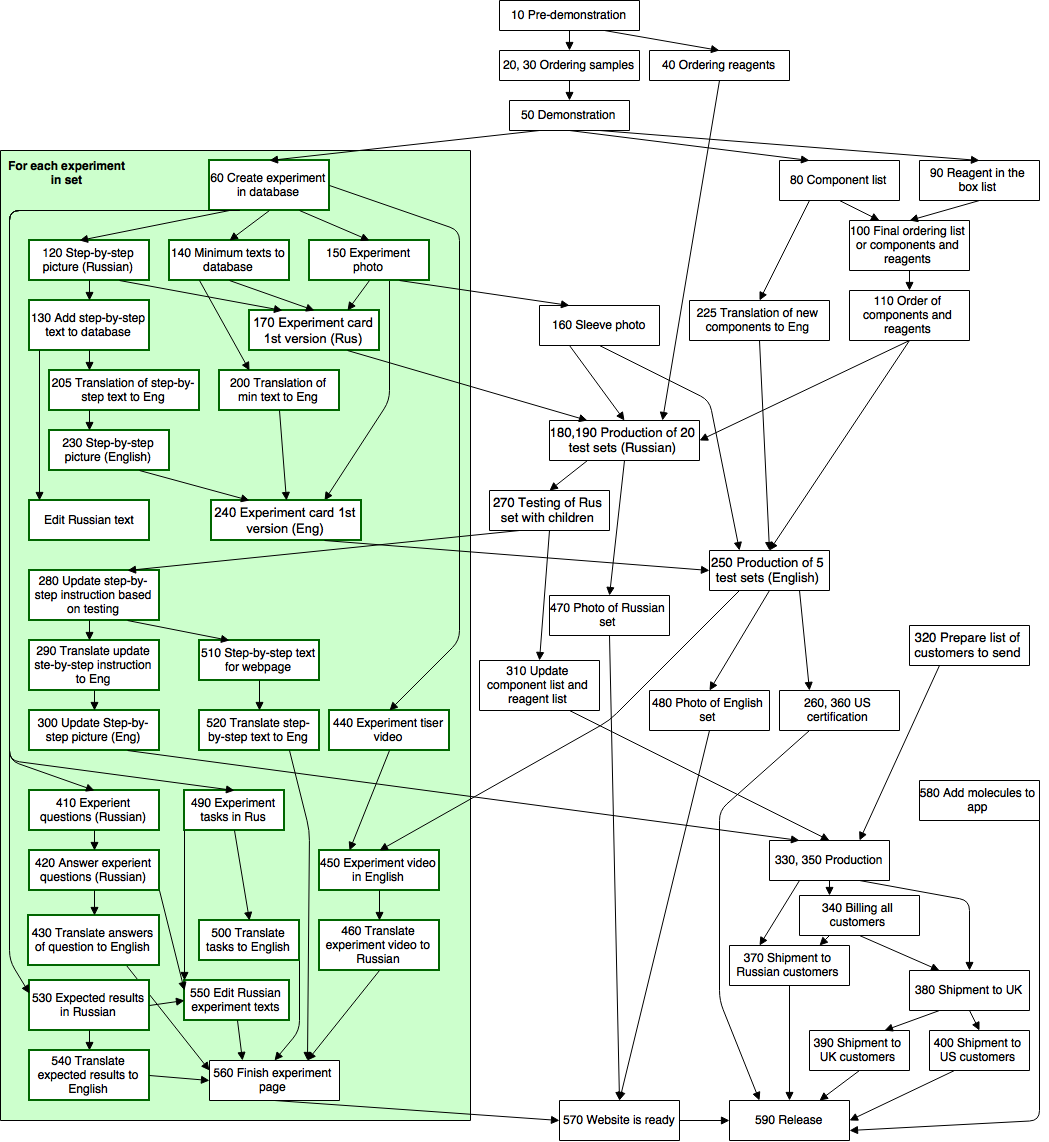
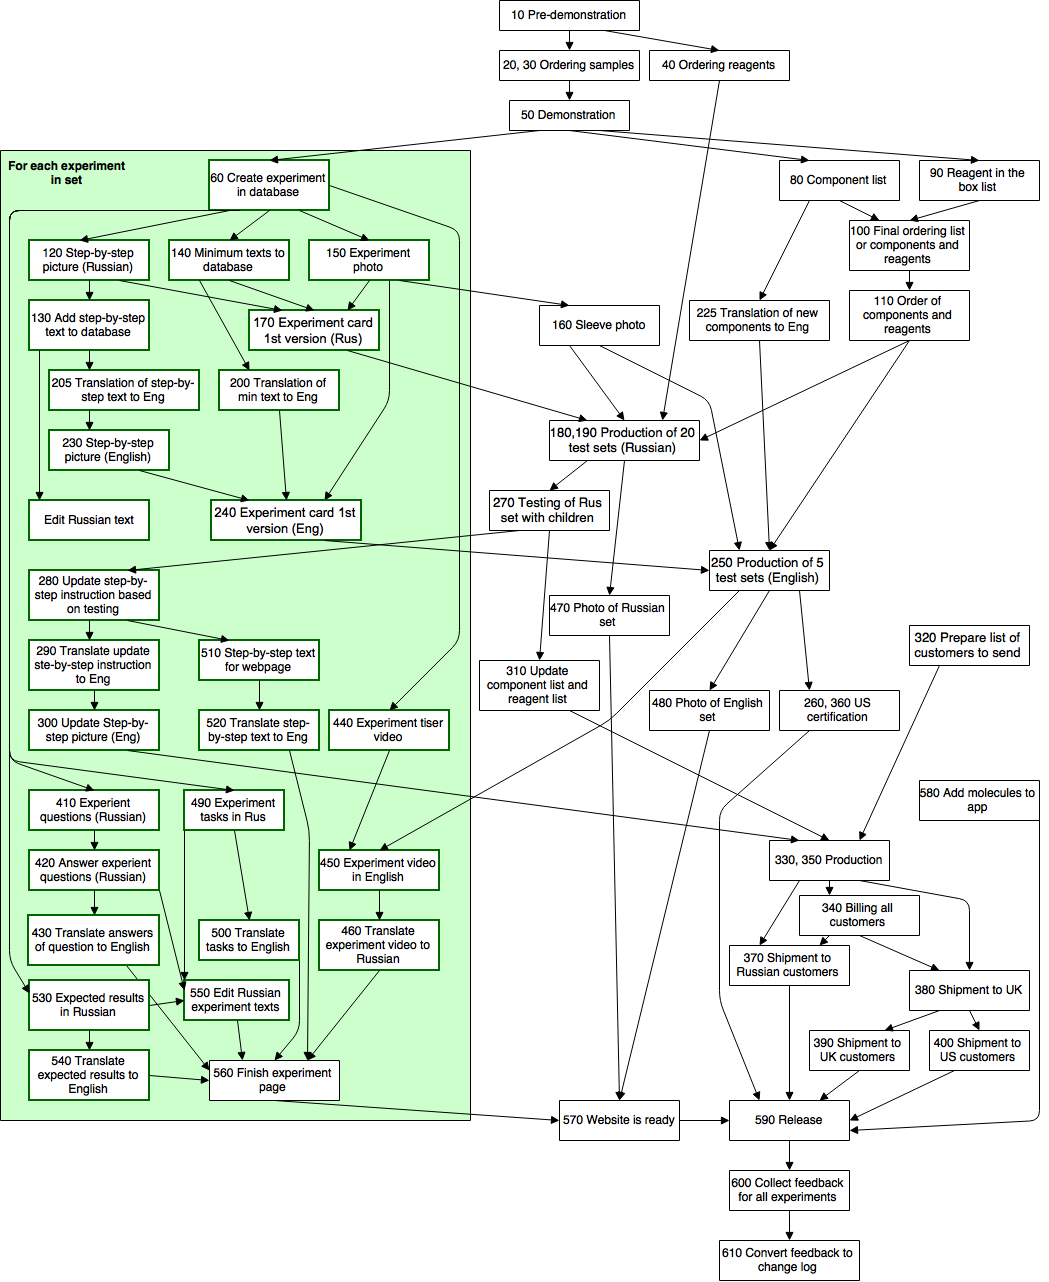
Two more steps (600 and 610) are added

diff --git a/melchemistryprocess/start.html b/melchemistryprocess/start.html
@@ -66,9 +66,6 @@ h2 {margin-top: 50px;}
 <tr><td>Experiment #2 inner title</td><td><input type="text" id="experiment2_inner_title" size="50"></td></tr>
 <tr><td>Experiment #3 inner title</td><td><input type="text" id="experiment3_inner_title" size="50"></td></tr>
 <tr><td>Experiment #4 inner title</td><td><input type="text" id="experiment4_inner_title" size="50"></td></tr>
-<tr><td>Experiment #5 inner title</td><td><input type="text" id="experiment5_inner_title" size="50"></td></tr>
-<tr><td>Experiment #6 inner title</td><td><input type="text" id="experiment6_inner_title" size="50"></td></tr>
-<tr><td>Experiment #7 inner title</td><td><input type="text" id="experiment7_inner_title" size="50"></td></tr>
 </table>
 <button class="btn btn-primary btn-lg" id="button_generate">Generate</button>
 </div>
@@ -106,7 +103,13 @@ Repeate these five steps for each of the experiments in this set (<b>{experiment
   <li>Make sure that folder with set inner title (<b>{set_inner_title}</b>) exists</li>
   <li>For each experiment create a subfolder with experiment inner titles (<b>{experiment_inner_titles}</b>) as name</li>
 </ol>
-<h3>7. Send pre-demonstration appointment</h3>
+<h3>7. Create experiments in the MEL Science Admin</h3>
+<ol>
+  <li>Open <a href="https://www.melscience.com/ru/admin/experiments/list/" target="_blank">MEL Science Admin</a></li>
+  <li>Create new experiment for each of the experiments (<b>{experiment_inner_titles}</b>)</li>
+  <li>Make sure that "Inner title" and "Theme" fields are set for all experiments (all other fields can be left empty so far)</li>
+</ol>
+<h3>8. Send pre-demonstration appointment</h3>
 <style>
 div.form-to input {margin-right: 5px;}
 </style>
@@ -183,7 +186,7 @@ $("#predemo_date").datepicker();
 $("#button_generate").click(function() {
   experiment_inner_titles = [];
   set_inner_title = $("#set_inner_title").val();
-  for (var i=1; i<=7; i++) {
+  for (var i=1; i<=4; i++) {
     var experiment_inner_title = $("#experiment" + i + "_inner_title").val();
     if (experiment_inner_title!="") {
       experiment_inner_titles.push(experiment_inner_title);

diff --git a/melchemistryprocess/diagram.html b/melchemistryprocess/diagram.html
@@ -53,7 +53,7 @@
 <img src="images/legend.png">
 </div>
 
-<canvas id="diagram_canvas" width="1042" height="1142"></canvas>
+<canvas id="diagram_canvas" width="1042" height="1300"></canvas>
 <img id="diagram_image" src="images/processdiagram.png" width="1" height="1" alt="">
 
 <style>
@@ -197,7 +197,9 @@ var taskCoordinates = {
  560: [210,1060, 340,1100],
  570: [560,1100, 680,1140],
  580: [920, 780,1040, 820], 
- 590: [730,1100, 850,1140] 
+ 590: [730,1100, 850,1140], 
+ 600: [730,1170, 850,1210], 
+ 610: [720,1100, 860,1280] 
 };
 
 function showFinishTasksDialog(task) {
